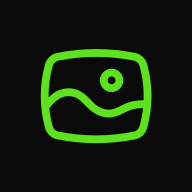
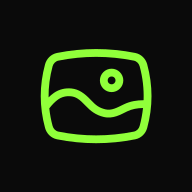
换色补完:图标、社交图、邮件、文档
上一个提交只换了 CSS token,漏掉了所有不走 token 的地方——品牌色散落
在十几种载体里,而 grep 一个十六进制串只能捞到其中一部分:

- brand/*.svg 四个源文件,以及 gen-favicons.sh 里写死的 GREEN。
  favicon 那一套是从 SVG 渲染出来的,所以改完源要重跑脚本,17 个
  PNG/ICO 才会跟着变。脚本自己的注释就记着这个坑犯过一次:SVG 换了三
  次色,PNG 还是八月那版紫的。
- site.webmanifest 的 theme_color(PWA 启动画面和安装图标用它)。
- og-image.png 没有生成脚本,只能改像素。用"绿墨水占比"逐像素重映射:
  t = (g - max(r,b)) / 134,对任何中性底的线性混合,这个值恰好等于混
  合系数,所以抗锯齿边缘按比例迁移,不会出现锯齿或色边。背景 #0a0a0a、
  白字、灰字一个像素都没动。
- chartTheme 的 BRAND_DIM 写的是 rgba(93, 227, 29, .15) 十进制,只搜十
  六进制搜不到。
- 邮件的绿色主题(sendflare.go)整套重推色相,验证码色在浅底上仍是
  4.92:1(原来 4.97:1);email_test.go 断言的就是这三个色值,一起改。
- 浅色场景那档深绿 #2B7507 → #337400,白底同样是 5.8:1。

注释里的对比度数字也一并更新。

Changed region(s): [[0.1875, 0.25, 0.8125, 0.75], [0.5, 0.3438, 0.6562, 0.5]]

diff --git a/frontend/index.html b/frontend/index.html
@@ -2,13 +2,13 @@
 <html lang="zh-CN">
   <head>
     <meta charset="UTF-8" />
-    <link rel="icon" type="image/svg+xml" href="/favicon.svg?v=11e2107e" />
-    <link rel="icon" type="image/png" sizes="32x32" href="/favicon-32x32.png?v=11e2107e" />
-    <link rel="icon" type="image/png" sizes="48x48" href="/favicon-48x48.png?v=11e2107e" />
-    <link rel="icon" type="image/png" sizes="96x96" href="/favicon-96x96.png?v=11e2107e" />
-    <link rel="icon" type="image/png" sizes="192x192" href="/favicon-192x192.png?v=11e2107e" />
-    <link rel="alternate icon" href="/favicon.ico?v=11e2107e" />
-    <link rel="apple-touch-icon" sizes="180x180" href="/apple-touch-icon.png?v=11e2107e" />
+    <link rel="icon" type="image/svg+xml" href="/favicon.svg?v=066deec9" />
+    <link rel="icon" type="image/png" sizes="32x32" href="/favicon-32x32.png?v=066deec9" />
+    <link rel="icon" type="image/png" sizes="48x48" href="/favicon-48x48.png?v=066deec9" />
+    <link rel="icon" type="image/png" sizes="96x96" href="/favicon-96x96.png?v=066deec9" />
+    <link rel="icon" type="image/png" sizes="192x192" href="/favicon-192x192.png?v=066deec9" />
+    <link rel="alternate icon" href="/favicon.ico?v=066deec9" />
+    <link rel="apple-touch-icon" sizes="180x180" href="/apple-touch-icon.png?v=066deec9" />
     <link rel="manifest" href="/site.webmanifest" />
     <meta name="theme-color" content="#0a0a0a" />
     <script>

diff --git a/frontend/src/index.css b/frontend/src/index.css
@@ -41,7 +41,7 @@
    There used to be a light theme here, built by inverting the neutral ramp
    under [data-theme="light"]. It is gone: the product is dark, and a bright
    green brand cannot be text on white — #90FF3A is 1.27:1 there, so the light
-   theme had to darken it to #30800A and the brand stopped looking like itself.
+   theme had to darken it to #337400 and the brand stopped looking like itself.
    Dark has no such problem: the same green reads at 15.60:1 on the page.
 
    What remains switchable is the brand hue, at the bottom of this file.
@@ -156,8 +156,8 @@ html, body {
    prefix on 900 utilities and no re-render when it flips.
 
    The load-bearing variable is --color-brand-ink. Violet has a relative
-   luminance of 0.135 and carries white at 4.67:1; the green is 0.574 and
-   carries white at 1.68:1. So the two brands need *opposite* foregrounds, and
+   luminance of 0.135 and carries white at 4.67:1; the green is 0.778 and
+   carries white at 1.27:1. So the two brands need *opposite* foregrounds, and
    every filled control in the codebase already reads its foreground from that
    one variable. Flipping it to white is what makes violet work without
    touching a single component.

diff --git a/frontend/src/chartTheme.ts b/frontend/src/chartTheme.ts
@@ -33,7 +33,7 @@ export interface ChartTheme {
 
 const DARK = {
   BRAND: "#90ff3a",
-  BRAND_DIM: "rgba(93, 227, 29, 0.15)",
+  BRAND_DIM: "rgba(144, 255, 58, 0.15)",
   SERIES: ["#90ff3a", "#38bdf8", "#fbbf24", "#f472b6", "#94a3b8", "#2dd4bf", "#fb923c"],
   GRID: "rgba(64, 64, 64, 0.35)",
   TICK: "#737373",

diff --git a/backend/internal/api/report_notify.go b/backend/internal/api/report_notify.go
@@ -116,7 +116,7 @@ func reportEmailHTML(label string, rep *models.Report, img *models.Image, imageU
 			esc(label) + `</div>`,
 
 		// The reason is why the mail exists, so it gets the most weight.
-		`<div style="background:#f8f9fa;border-left:3px solid #5DE31D;border-radius:0 6px 6px 0;padding:12px 14px;margin-bottom:20px">`,
+		`<div style="background:#f8f9fa;border-left:3px solid #90FF3A;border-radius:0 6px 6px 0;padding:12px 14px;margin-bottom:20px">`,
 		`<div style="color:#6b7280;font-size:11px;margin-bottom:4px">举报理由</div>`,
 		`<div style="color:#111827;font-size:14px;line-height:1.6">` + reason + `</div>`,
 		`</div>`,
@@ -130,10 +130,10 @@ func reportEmailHTML(label string, rep *models.Report, img *models.Image, imageU
 
 		`<div style="background:#f8f9fa;border-radius:6px;padding:12px 14px;margin:20px 0">`,
 		`<div style="color:#6b7280;font-size:11px;margin-bottom:6px">图片直链 · 请自行判断是否打开</div>`,
-		`<a href="` + esc(imageURL) + `" style="color:#2B7507;font-size:12px;word-break:break-all;text-decoration:none">` + esc(imageURL) + `</a>`,
+		`<a href="` + esc(imageURL) + `" style="color:#337400;font-size:12px;word-break:break-all;text-decoration:none">` + esc(imageURL) + `</a>`,
 		`</div>`,
 
-		`<a href="` + esc(adminURL) + `" style="display:inline-block;background:#5DE31D;color:#0A1B02;` +
+		`<a href="` + esc(adminURL) + `" style="display:inline-block;background:#90FF3A;color:#0A1B02;` +
 			`text-decoration:none;padding:11px 20px;border-radius:8px;font-size:14px;font-weight:500">前往后台处理</a>`,
 
 		`</td></tr>`,

diff --git a/backend/internal/email/sendflare.go b/backend/internal/email/sendflare.go
@@ -81,7 +81,7 @@ func truncate(s string, n int) string {
 // Emails stay light-background regardless: dark mode in email clients is a
 // minefield (Gmail recolors, Outlook inverts), so the brand shows in the
 // accents, not the canvas. Each code color is the darkened shade of its brand
-// that stays readable on the tinted box — the raw brand green is a 1.7:1
+// that stays readable on the tinted box — the raw brand green is a 1.27:1
 // against white, which is exactly the mistake the old template made in
 // reverse (violet box, green digits, neither matching the site).
 type mailPalette struct {
@@ -89,7 +89,7 @@ type mailPalette struct {
 }
 
 var mailPalettes = map[string]mailPalette{
-	"green":  {BoxBg: "#f2fbe9", BoxBorder: "#cfe8bd", Code: "#3a7a12"},
+	"green":  {BoxBg: "#f1fbe9", BoxBorder: "#d0e8bd", Code: "#3f7a12"},
 	"violet": {BoxBg: "#f5f2ff", BoxBorder: "#ded3ff", Code: "#6d3fd4"},
 }
 

diff --git a/backend/internal/email/email_test.go b/backend/internal/email/email_test.go
@@ -46,7 +46,7 @@ func TestOTPEmailFollowsBrand(t *testing.T) {
 	green := OTPEmailHTML(i18n.ZH, "green", "445207", 5)
 	violet := OTPEmailHTML(i18n.ZH, "violet", "445207", 5)
 
-	for _, hex := range []string{"#f2fbe9", "#cfe8bd", "#3a7a12"} {
+	for _, hex := range []string{"#f1fbe9", "#d0e8bd", "#3f7a12"} {
 		if !strings.Contains(green, hex) {
 			t.Errorf("绿色主题邮件缺少配色 %s", hex)
 		}

diff --git a/DEVELOPMENT.md b/DEVELOPMENT.md
@@ -183,8 +183,8 @@ npx tsc -b && npm run build && npx eslint .
 
 ### 设计
 
-- **产品固定深色**（浅色主题已删除：品牌绿 #5DE31D 在白底对比度 1.79:1 不可用）
-- 品牌色绿（#5DE31D）/ 紫（#8E47FF）一键切换：整套 `--color-brand-*` 变量在 `:root[data-brand="violet"]` 下覆盖，实心控件前景统一取 `--color-brand-ink`（绿配近黑、紫配白），切换零组件改动；favicon 用 data: URI 运行时重画
+- **产品固定深色**（浅色主题已删除：品牌绿 #90FF3A 在白底对比度 1.27:1 不可用）
+- 品牌色绿（#90FF3A）/ 紫（#8E47FF）一键切换：整套 `--color-brand-*` 变量在 `:root[data-brand="violet"]` 下覆盖，实心控件前景统一取 `--color-brand-ink`（绿配近黑、紫配白），切换零组件改动；favicon 用 data: URI 运行时重画
 - 头像、旗帜、状态点、开关等"本身就该是正圆"的元素用 `rounded-full`，其余遵循页面既有圆角语言
 - 品牌字体 Ubuntu 仅 Latin，CJK 落回系统栈；图标 Font Awesome
 - 悬停动效把 transform 与 color 的过渡时长分开（共用一个时长会显得卡）
